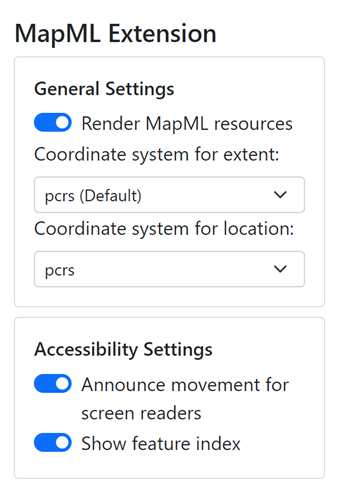
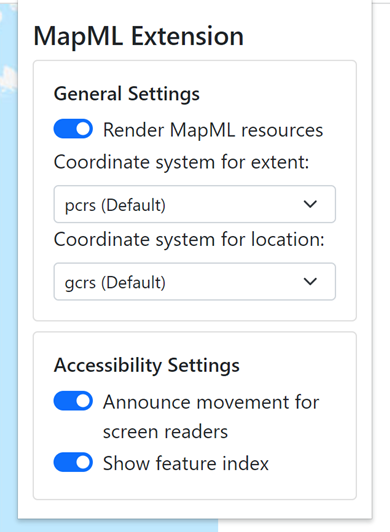
update pic of new extension UI, add a section for cs setting feature

diff --git a/docs/extension/features.md b/docs/extension/features.md
@@ -28,7 +28,7 @@ When turned on through the extension popup (it is on by default as shown above, 
 
 ### Set a coordinate system for copy operations
 
-By default, the coordinate system (cs) for copying extent is PCRS, and the cs for copying location is GCRS. When changed to another cs through the extension, the cs will be set to the selected cs accordingly for the following copy operations.
+By default, the coordinate system (cs) for copying extent is PCRS, and the cs for copying location is GCRS. When changed to another cs through the extension, the cs will be set to the selected cs for the following copy operations.
 
 ## Requirements
 
